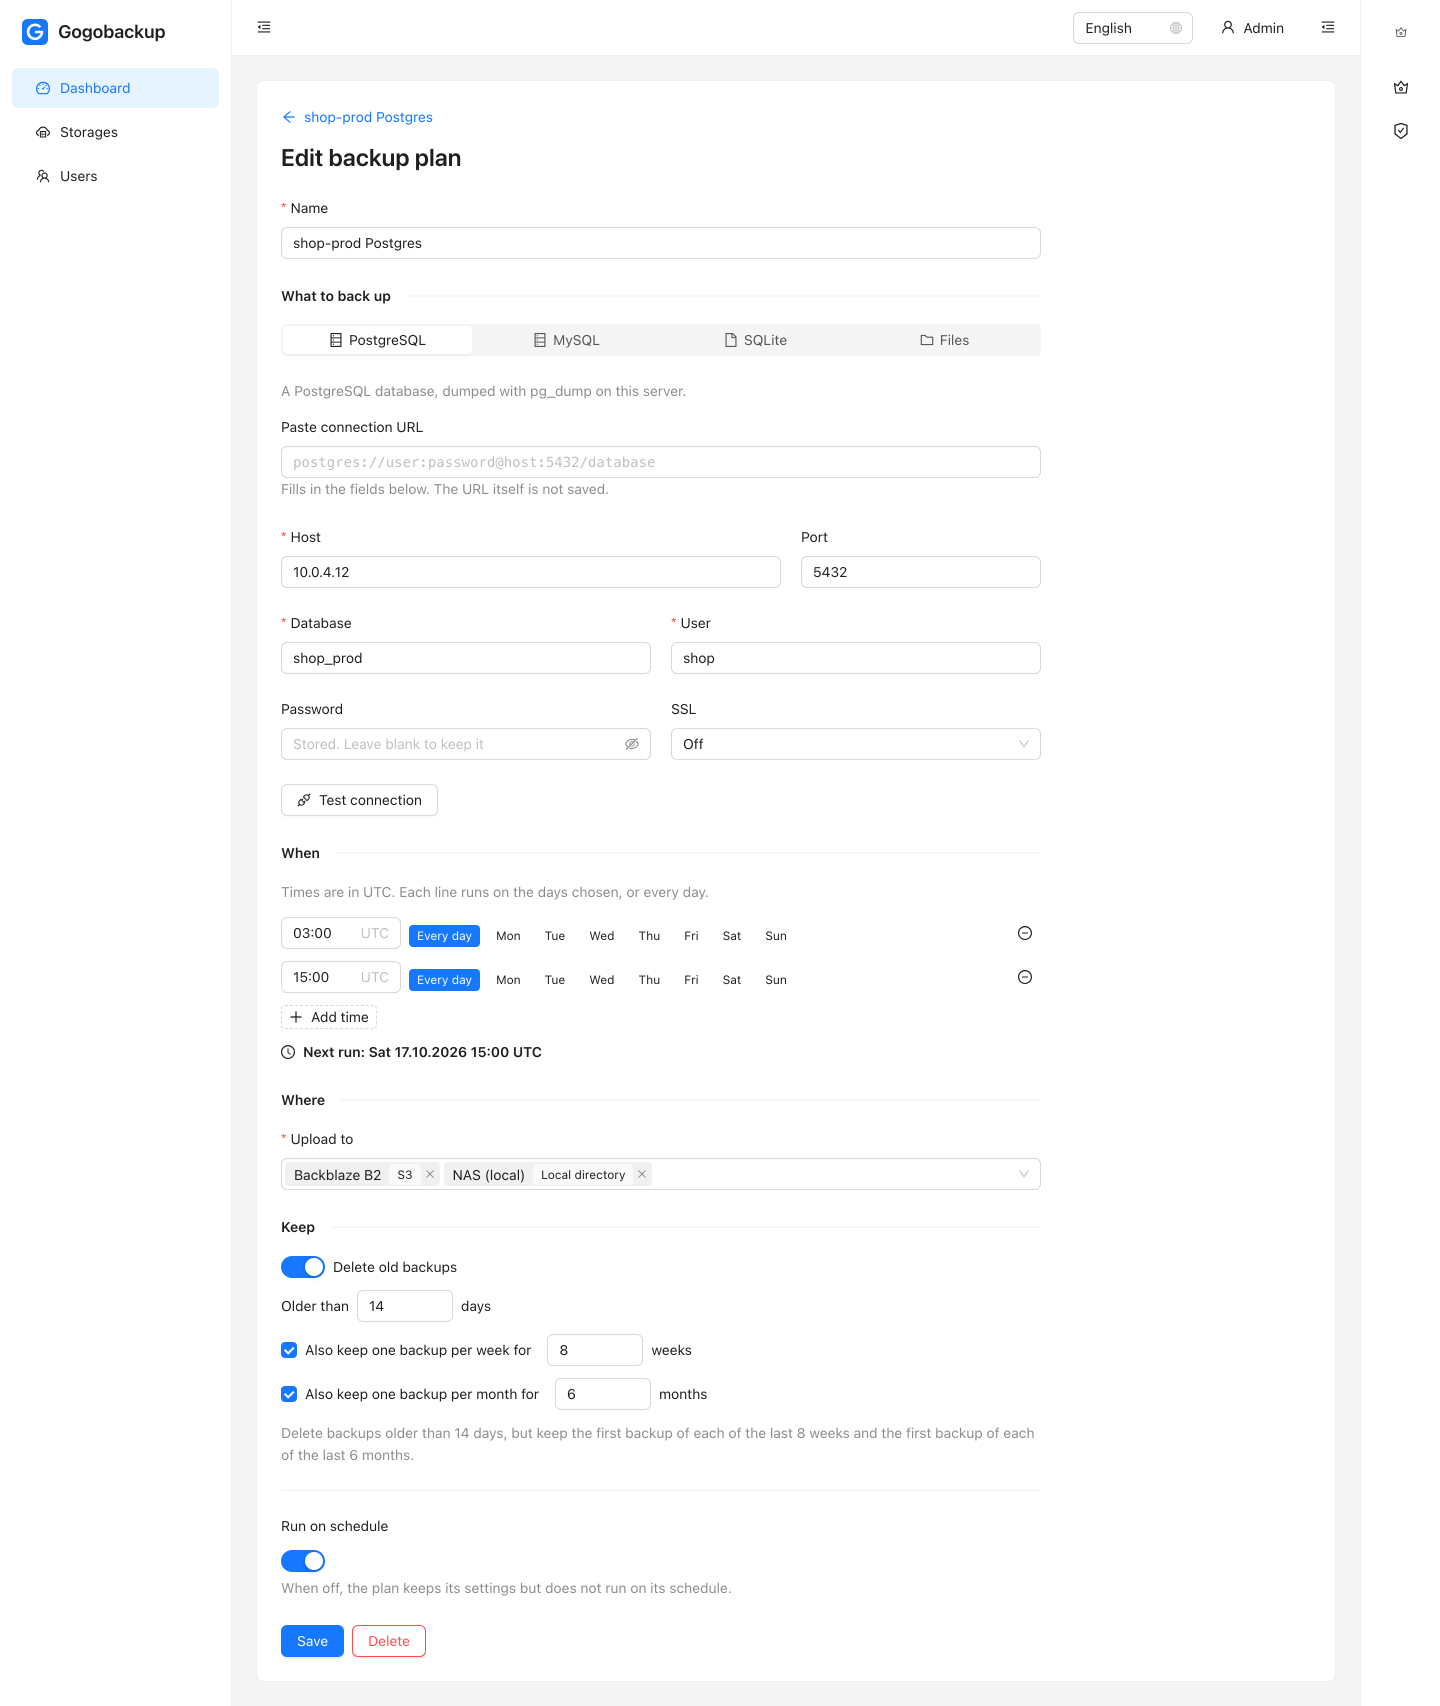
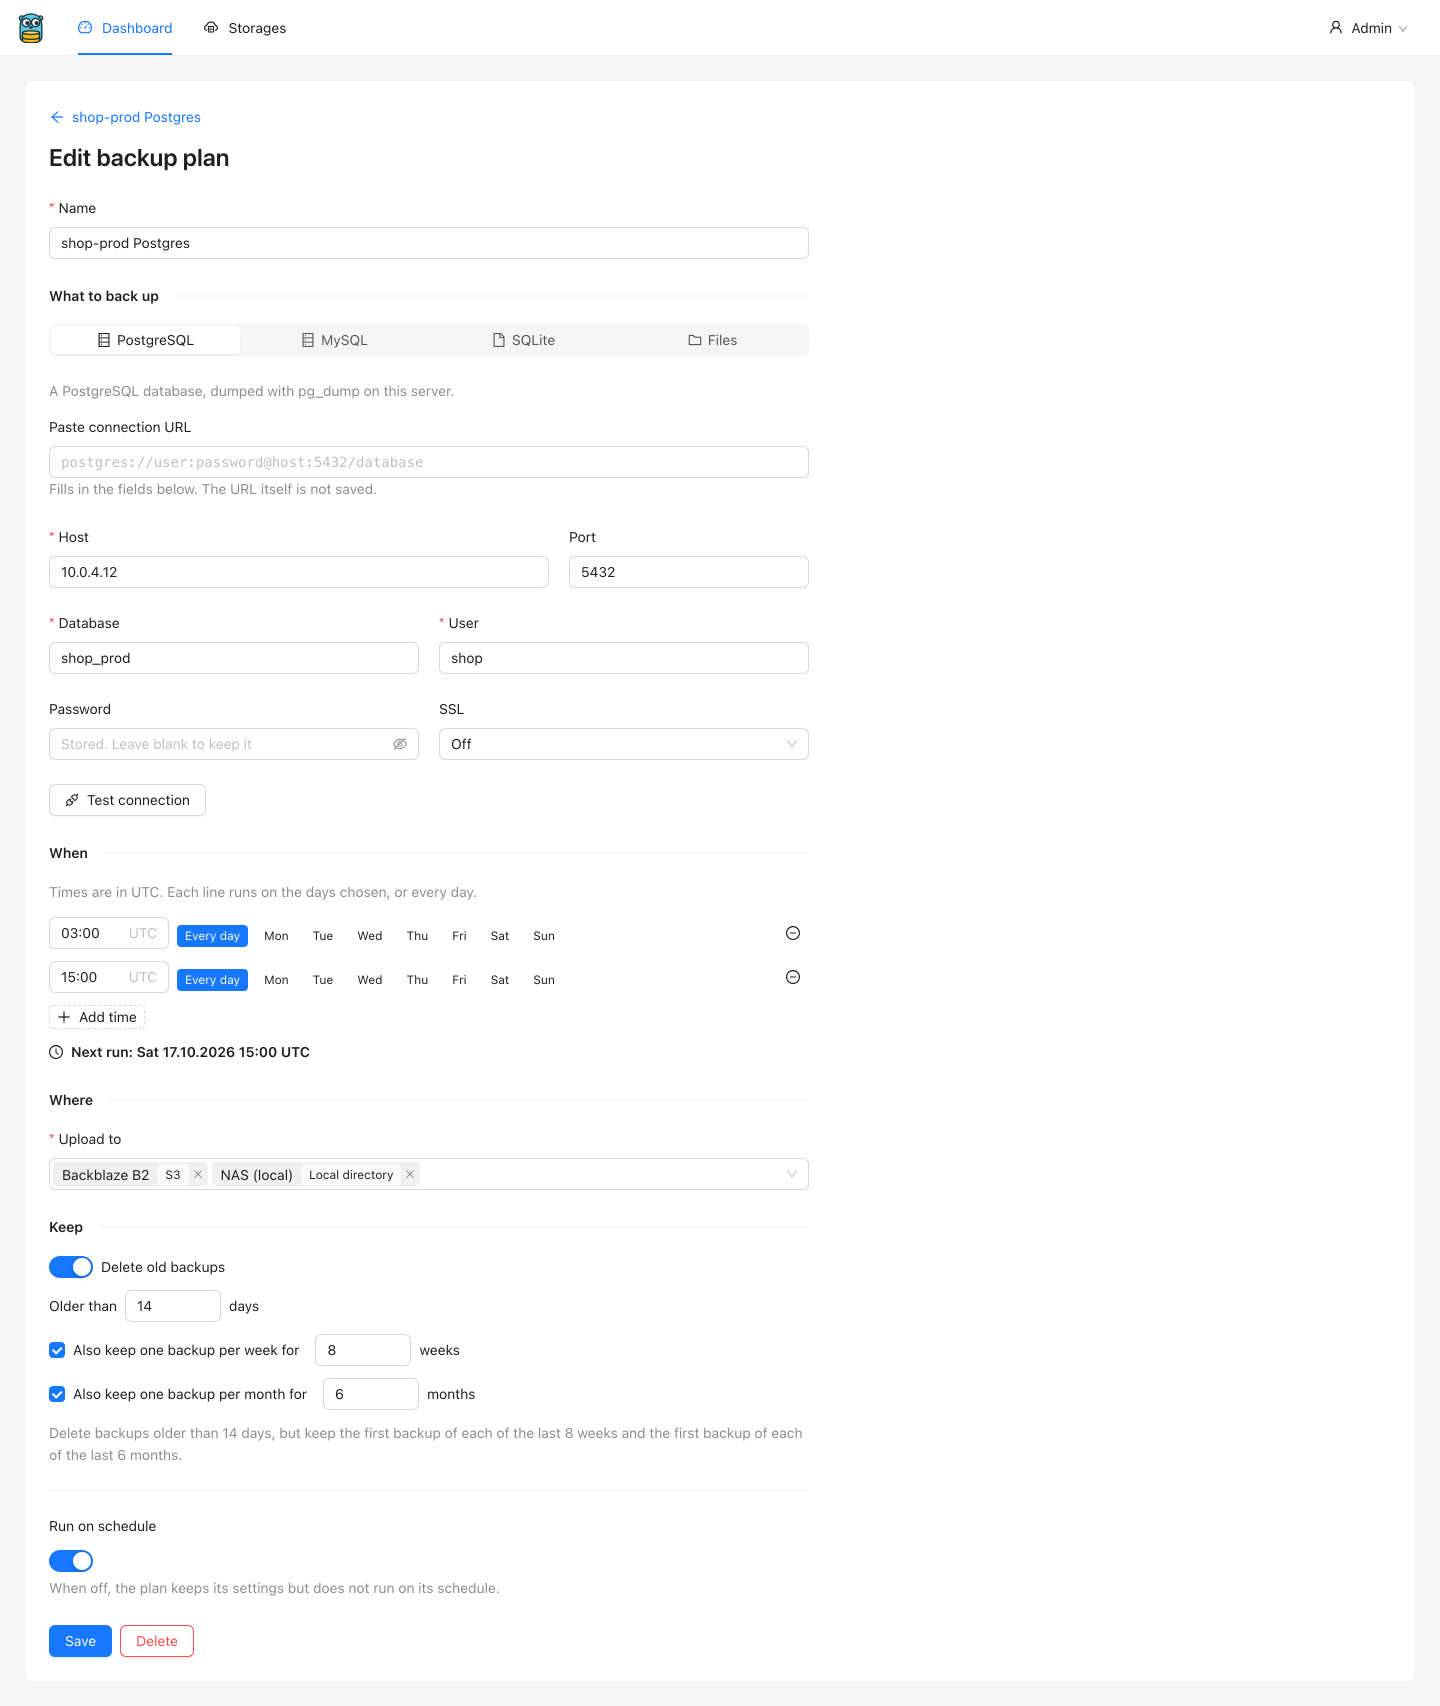
Regenerate README screenshots for the top bar
Every screenshot now shows the top bar with the gopher logo. The script
seeds into /tmp/gogobackup-demo instead of a random /tmp/gogobackup-XXXX
folder, so the paths in the run log, the storage browser and the restore
form read the same on every run. The API needs those paths to be real,
so the folder stays visible; only its name is fixed.

diff --git a/scripts/screenshots/README.md b/scripts/screenshots/README.md
@@ -1,2 +1,3 @@
-`node scripts/screenshots/shoot.mjs` from the repository root rebuilds the API and the admin panel, seeds a throwaway database in `/tmp` (`backend/cmd/screenshots-seed`) and writes the README screenshots to `docs/images`.
+`node scripts/screenshots/shoot.mjs` from the repository root rebuilds the API and the admin panel, seeds a throwaway database in `/tmp/gogobackup-demo` (`backend/cmd/screenshots-seed`) and writes the README screenshots to `docs/images`.
 It needs Go, `sqlite3` and the frontend's `node_modules` with Playwright's Chromium (`make playwright-browsers` in `frontend/`), and takes about a minute because it waits for the scheduler's tick.
+The folder has a fixed name because its paths show in the screenshots. Each run clears it first, so run one at a time; a failed run leaves the API and preview logs there.
